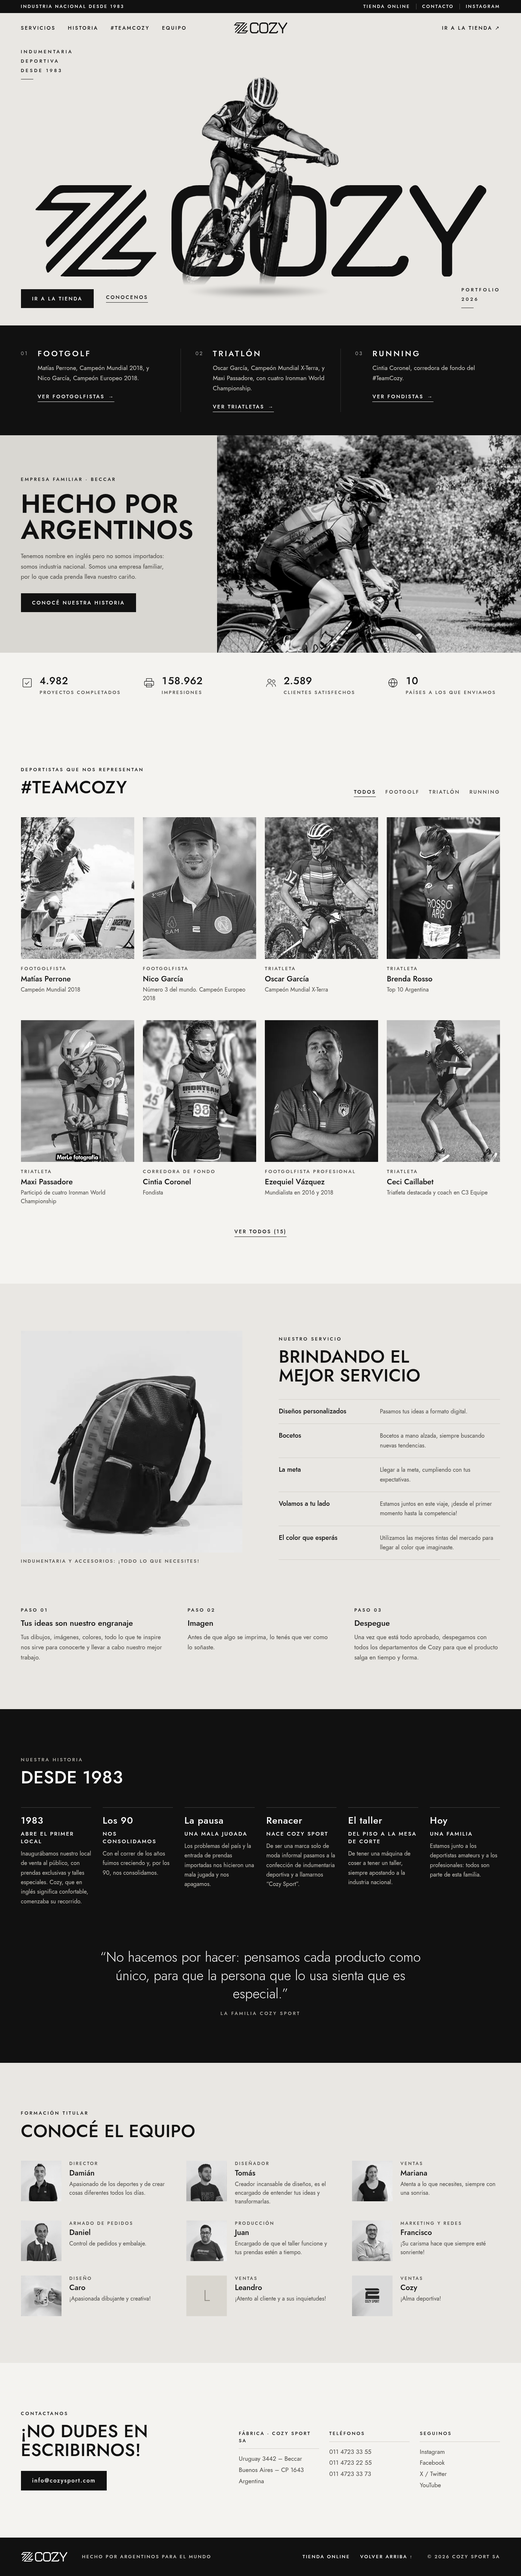
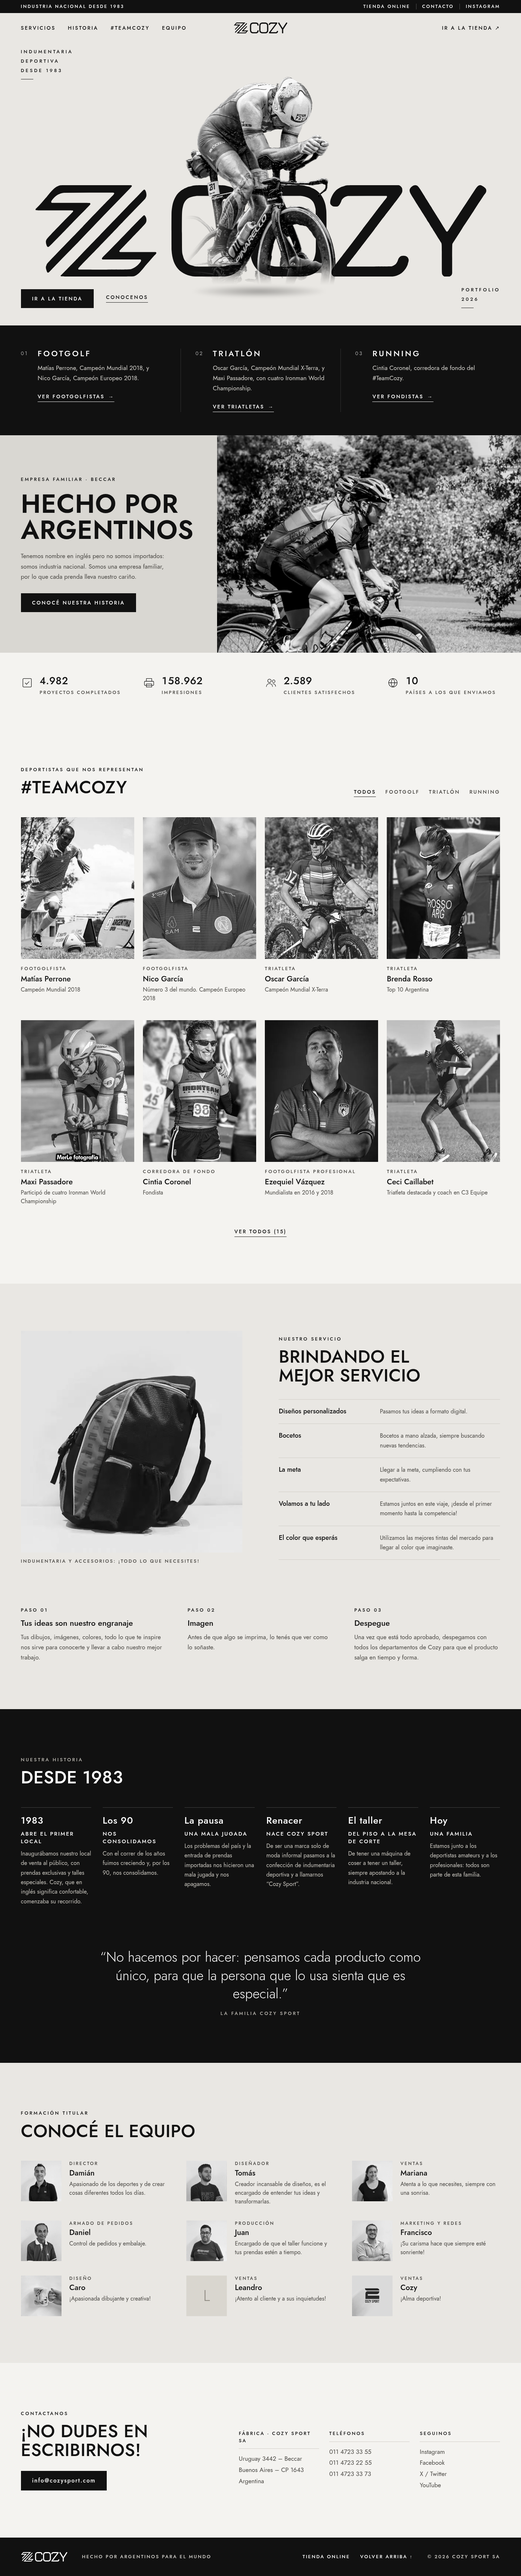
Portada con la foto del triatleta Cozy, centrada y con bordes desvanecidos

Changed region(s): [[0.3438, 0.0312, 0.6562, 0.1249]]

diff --git a/index.html b/index.html
@@ -17,8 +17,8 @@
 <link rel="preconnect" href="https://fonts.googleapis.com">
 <link rel="preconnect" href="https://fonts.gstatic.com" crossorigin>
 <link href="https://fonts.googleapis.com/css2?family=Jost:wght@300;400;500;600&display=swap" rel="stylesheet">
-<link rel="preload" as="image" href="assets/cozy-ciclista-cutout.webp">
-<link rel="stylesheet" href="styles.css?v=202610250445">
+<link rel="preload" as="image" href="assets/cozy-triatleta-cutout.webp">
+<link rel="stylesheet" href="styles.css?v=202610250500">
 <script>document.documentElement.classList.add('js')</script>
 </head>
 <body id="top">
@@ -56,7 +56,7 @@
     <img class="hero__word" src="assets/cozy-wordmark-black.svg" alt="" width="3270" height="660">
     <div class="hero__athlete">
       <span class="hero__shadow" aria-hidden="true"></span>
-      <img src="assets/cozy-ciclista-cutout.webp" alt="Ciclista de mountain bike en el aire con indumentaria Cozy Sport" width="385" height="499" fetchpriority="high">
+      <img src="assets/cozy-triatleta-cutout.webp" alt="Triatleta con traje Cozy Sport en posición aero sobre una bicicleta de contrarreloj, bajo la lluvia" width="724" height="994" fetchpriority="high">
     </div>
   </div>
   <div class="hero__foot">
@@ -231,6 +231,6 @@
   </nav>
   <p class="foot__c">© <span id="y">2026</span> Cozy Sport SA</p>
 </footer>
-<script src="main.js?v=202610250445" defer></script>
+<script src="main.js?v=202610250500" defer></script>
 </body>
 </html>

diff --git a/styles.css b/styles.css
@@ -188,10 +188,10 @@ ul,ol{list-style:none}
   .hero{min-height:auto;padding:8px var(--pad) 36px;grid-template-rows:auto auto auto}
   .hero__stage{height:min(118vw,500px);margin-top:4px}
   .hero__stage{align-items:flex-end}
-  .hero__word{max-height:none;width:100%;margin-bottom:17%;position:relative;z-index:1}
+  .hero__word{max-height:none;width:100%;margin-bottom:9%;position:relative;z-index:1}
   .hero__athlete{z-index:2}
-  .hero__athlete{height:80%;bottom:34px;--tx:-50%}
-  .hero__shadow{bottom:-22px;height:24px}
+  .hero__athlete{height:82%;bottom:54px;--tx:-50%}
+  .hero__shadow{bottom:-10px;height:22px}
   .hero__foot{flex-direction:column-reverse;align-items:flex-start;gap:28px;margin-top:20px}
   .hero__label--r{display:none}
   .hero__cta{width:100%;gap:26px}

diff --git a/README.md b/README.md
@@ -5,4 +5,6 @@ Sexta versión del portfolio de [Cozy Sport](https://cozysport.com/portfolio/): 
 - Sitio: https://juancjose.github.io/cozy-portfolio-mono/
 - Tienda: https://cozy-sport.vercel.app
 
-Sitio estático (HTML + CSS + JS, sin build). Cada foto aparece una sola vez en la página. El recorte del ciclista de portada (`assets/cozy-ciclista-cutout.webp`) se generó a partir de `Untitled-2.webp` con rembg (`isnet-general-use`) más limpieza del cielo entre los rayos, en escala de grises con fondo transparente.
+Sitio estático (HTML + CSS + JS, sin build). Cada foto aparece una sola vez en la página. El recorte de portada (`assets/cozy-triatleta-cutout.webp`) se generó con rembg (`isnet-general-use`), con limpieza del fondo entre ruedas y cuadro, escala de grises y fundido a transparente en los bordes recortados de la foto original.
+
+Foto portada: Instagram @seba.ostertag
